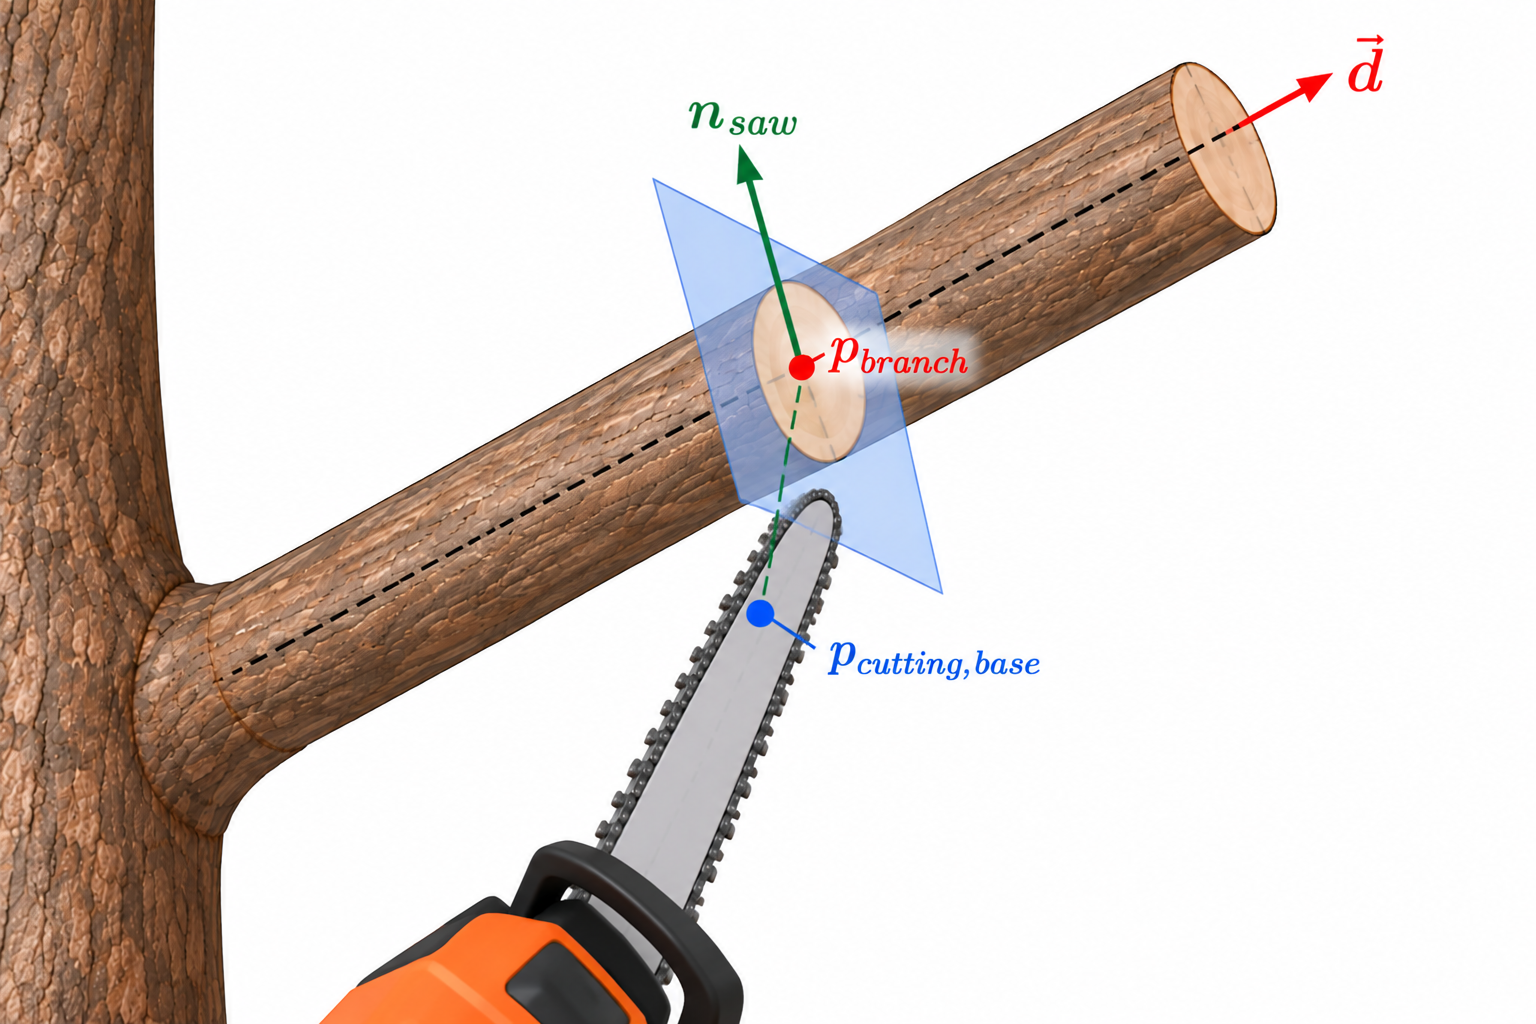
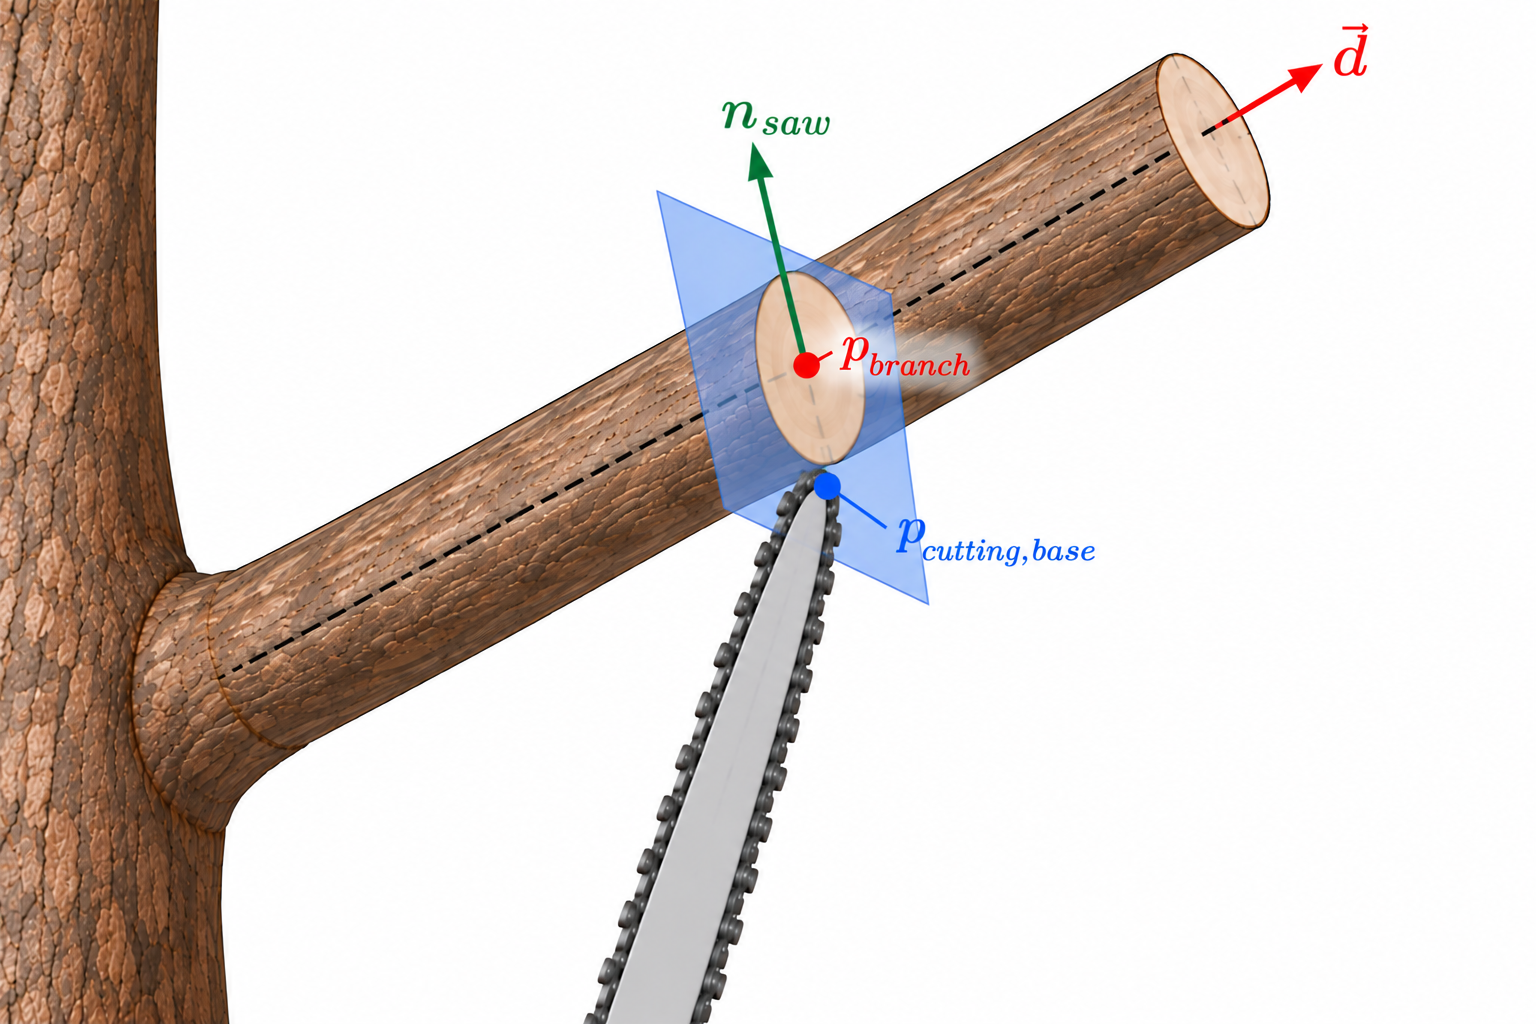
finish stage_D.md

Changed region(s): [[0.0, 0.0, 0.9062, 1.0]]

diff --git a/docs/stages/stage_D_offboard_demo.md b/docs/stages/stage_D_offboard_demo.md
@@ -10,7 +10,7 @@ Stage D 表面上是一个 Offboard 自动切割 Demo，但实际主要探索五
 1. **根据枝条方向构造合理的切割平面**
 2. **初步确定 UAV yaw 与机械臂姿态的联合关系**
 3. **建立链锯有效切割区域与目标枝条之间的几何关系**
-4. **确定 UAV 接近目标的方向及 FAR / NEAR / CUT_IN 作业位置**
+4. **确定 UAV 接近目标的方向及 FAR / NEAR / CUT_IN 作业轨迹**
 5. **搭建可分段执行、恢复、一键执行的作业架构**
 
 本阶段先验证：
@@ -137,7 +137,7 @@ TAKEOFF
 其中 \(\mathbf p\) 表示平面上的任意一点,它们的点积为 0（即垂直）。
 
 <p align="center">
-  <img src="/media/images/cutting/cutting_plane.png" width="85%">
+  <img src="/media/images/cutting/cutting_plane.png" width="100%">
 </p>
 
 这样首先确定了“**链锯应该落在哪个切割平面上**”。下一步再考虑如何通过 UAV 与机械臂，把链锯导板真正摆到这个平面。
@@ -201,7 +201,7 @@ R_{\mathrm{world}}^{\mathrm{tool}}
 
 当 \(\eta_{\mathrm{align}}\) 越接近 1，说明链锯导板与目标切割平面越一致。
 
-## 只调整 UAV yaw 不够！！！
+## 仅调整 UAV yaw 无法完成三维切割姿态对齐
 
 UAV yaw 只能改变无人机在**水平面内**的朝向。
 
@@ -315,15 +315,35 @@ CONTACT 不是提前写死的，而是由：
 
 ---
 
-# 5. 问题四：确定 UAV 接近目标的方向及 FAR / NEAR / CUT_IN 作业位置
+# 5. 问题四：确定 UAV 接近目标的方向及 FAR / NEAR / CUT_IN 作业轨迹
 
 CONTACT 确定后，下一步要解决：
 
 > **无人机应该从哪个方向靠近 CONTACT，并怎样逐级进入切割区域？**
 
-如果直接让 UAV 朝目标飞，运动方向中可能带有沿枝条主轴的分量，不一定是在横向切入。
+假设 UAV 原本朝 CONTACT 的沿着最短欧式距离的运动方向是：
 
-因此，希望切入方向位于前面确定的切割平面内，即：
+\[
+\mathbf t
+\]
+
+如果直接让 UAV 朝目标飞，运动方向中可能带有沿枝条主轴的分量，不一定是在横向切入，它可以分解成两部分：
+
+\[
+\boxed{
+\mathbf t
+=
+\mathbf t_{\perp}
++
+\mathbf t_{\parallel}
+}
+\]
+
+<p align="center">
+  <img src="/media/images/cutting/cutting_t.png" width="75%">
+</p>
+
+希望切入方向一定位于前面确定的切割平面内（\(\mathbf d\)  是单位向量）：
 
 \[
 \boxed{
@@ -333,7 +353,7 @@ CONTACT 确定后，下一步要解决：
 }
 \]
 
-设 UAV 指向目标切割区域的方向为 \(\mathbf t\)，去掉其中沿枝条主轴的分量：
+去掉 \(\mathbf t\) 中沿枝条主轴的分量得：
 
 \[
 \boxed{
@@ -341,6 +361,16 @@ CONTACT 确定后，下一步要解决：
 =
 \mathbf t
 -
+\mathbf t_{\parallel}
+}
+\]
+
+其中：
+
+\[
+\boxed{
+\mathbf t_{\parallel}
+=
 \mathbf d
 \left(
 \mathbf t^T\mathbf d
@@ -359,11 +389,11 @@ CONTACT 确定后，下一步要解决：
 }
 \]
 
-可以简单理解为：
+可以理解为：
 
-> UAV 原本朝向树枝的方向里，可能混有“顺着树枝”的分量；把这一部分去掉，只保留横向分量，就得到位于枝条横截面内的切入方向。
+> UAV 原本朝向树枝的方向里，可能混有“顺着树枝”的分量，去除这一部分，只保留横向分量，得位于枝条横截面内的切入方向。
 
-有了 CONTACT 和切入方向后，再沿 \(\mathbf u_{\mathrm{insert}}\) 向后布置 NEAR 与 FAR：
+有了 CONTACT 和切入方向后，再沿 \(\mathbf u_{\mathrm{insert}}\) 向后设置 NEAR 与 FAR两个工作位置：
 
 \[
 \boxed{
@@ -396,16 +426,12 @@ d_{\mathrm{near}}
 >0
 \]
 
-于是形成：
-
-```text
-FAR
-→ PREWORK
-→ CUT_ALIGN
-→ NEAR
-→ CUT_IN
-→ CONTACT
-```
+\[
+\boxed{
+d_{\mathrm{far}},\ d_{\mathrm{near}}
+\text{ 为预设的距离参数}
+}
+\]
 
 这里各位置的作用可以简单理解为：
 
@@ -423,11 +449,11 @@ FAR
 
 ```text
 切哪个平面
-↓
+  ↓
 链锯怎么摆
-↓
+  ↓
 有效切割区域要落在哪里
-↓
+  ↓
 UAV 从哪里、怎么接近
 ```
 
@@ -668,27 +694,25 @@ TAKEOFF
 
 ---
 
----
-
 # 9. Stage D 阶段总结
 
 Stage D 表面上完成的是一个 Offboard 自动切割 Demo，但核心是把下面这条任务几何链第一次完整连了起来：
 
 ```text
 BranchModel.direction
-↓
+    ↓
 切割平面
-↓
+    ↓
 UAV yaw + CUT_ALIGN
-↓
+    ↓
 链锯有效切割位置
-↓
+    ↓
 CONTACT base
-↓
+    ↓
 切入方向
-↓
+    ↓
 FAR / NEAR / CUT_IN
-↓
+    ↓
 自动切割与安全恢复
 ```
 
@@ -716,15 +740,11 @@ FAR / NEAR / CUT_IN
 }
 \]
 
-这一最小自主切割闭环。
-
-当前重点不是把每个模块都做到最优，而是先建立一个完整、可重复验证的系统基线，便于后续对单个模块进行升级和对比。
+最小自主切割闭环。
 
 ---
 
 # 附录 A：完整启动与测试指令
-
-下面保留当前完整启动方式，后续可以直接复制执行。
 
 ## A.1 编译
 
@@ -770,18 +790,6 @@ source ~/ws_ros2/install/setup.bash
 source install/setup.bash
 
 ros2 run uav_lumberjack_control arm_controller
-```
-
-可先检查：
-
-```text
-status
-```
-
-如有需要可手动回到：
-
-```text
-home
 ```
 
 ---
@@ -840,26 +848,6 @@ ros2 run uav_lumberjack_control offboard_cutting_demo \
 status
 sethome
 start
-```
-
-之后正常情况下无需再手动推进，系统应自行运行：
-
-```text
-TAKEOFF
-→ OBSERVE
-→ ARC_SCAN
-→ TARGET_LOCK
-→ FAR
-→ PREWORK
-→ CUT_ALIGN
-→ NEAR
-→ CUT
-→ RETREAT
-→ PREWORK
-→ HOME
-→ RETURN_HOME
-→ LANDING
-→ DONE
 ```
 
 ---
